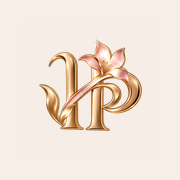
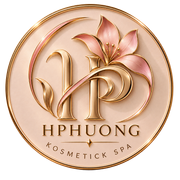
Lettering: copper-bevel BEAUTY COSMETIC HOÀNG pictures (lockup + header, light/dark) matching the old HPHUONG artwork

diff --git a/src/components/Chrome.tsx b/src/components/Chrome.tsx
@@ -25,6 +25,7 @@ import { ThemeToggle } from "./ThemeToggle";
 import type { Theme, ThemeChoice } from "@/lib/theme-auto";
 import { MotionRoot } from "./Motion";
 import { SpinLogo } from "./SpinLogo";
+import { Img } from "./Img";
 
 type Props = {
   locale: Locale;
@@ -113,9 +114,9 @@ export function Chrome({ locale, socialLinks, signedIn, themeChoice, children }:
                   <SpinLogo className="logo-spin__video" />
                 </span>
               )}
-              <span>
-                <span className="brand__name">{t.brand.line1.toUpperCase()}</span>
-                <span className="brand__descriptor">{t.brand.line2}</span>
+              <span className="brand__word">
+                <Img id="logo-header" alt={t.brand.name} priority sizes="230px" className="brand__word-img brand__word-img--light" />
+                <Img id="logo-header-dark" alt="" priority sizes="230px" className="brand__word-img brand__word-img--dark" />
               </span>
             </Link>
             <nav className="header__nav" aria-label={t.nav.mainNav}>
@@ -190,9 +191,9 @@ export function Chrome({ locale, socialLinks, signedIn, themeChoice, children }:
                   <img src="/media/logo-3d-still-240.webp" width={240} height={240} alt="" />
                   <SpinLogo className="logo-spin__video" />
                 </span>
-                <span>
-                  <span className="m-header__name">{t.brand.line1.toUpperCase()}</span>
-                  <span className="m-header__descriptor">{t.brand.line2}</span>
+                <span className="brand__word brand__word--m">
+                  <Img id="logo-header" alt={t.brand.name} priority sizes="200px" className="brand__word-img brand__word-img--light" />
+                  <Img id="logo-header-dark" alt="" priority sizes="200px" className="brand__word-img brand__word-img--dark" />
                 </span>
               </Link>
               <div className="m-header__tools">

diff --git a/src/components/BrandWord.tsx b/src/components/BrandWord.tsx
@@ -1,27 +1,15 @@
 import { Img } from "./Img";
 
 /**
- * The lettering under the monogram: the shop's name as live text — "BEAUTY COSMETIC" in rose gold on
- * top (with the leaf ornament cut from the studio's artwork, logo-name) and "HOÀNG" set on the arch
- * below. The box keeps the proportions of the old one-piece lettering (1119 × 413).
+ * The lettering under the monogram: "BEAUTY COSMETIC" in the same copper bevel as the old HPHUONG artwork,
+ * the leaf ornament, and "HOÀNG" on the arch. One picture per theme (the arched line is brown on cream,
+ * pale rose on graphite); CSS shows the one that matches.
  */
-export function BrandWord({ id, className = "", sizes, name = "Beauty Cosmetic", descriptor = "Hoàng" }: { id: string; className?: string; sizes: string; name?: string; descriptor?: string }) {
+export function BrandWord({ className = "", sizes, name = "Beauty Cosmetic Hoàng" }: { id?: string; className?: string; sizes: string; name?: string; descriptor?: string }) {
   return (
     <div className={`brand-word ${className}`}>
-      <div className="brand-word__name">
-        <span className="brand-word__text">{name.toUpperCase()}</span>
-        <div className="brand-word__orn" aria-hidden>
-          <Img id="logo-name" alt="" priority sizes={sizes} className="brand-word__orn-img" />
-        </div>
-      </div>
-      <svg className="brand-word__arc" viewBox="0 0 1119 215" aria-hidden focusable="false">
-        <path id={id} d="M 20 40 Q 559.5 372 1099 40" fill="none" />
-        <text>
-          <textPath href={`#${id}`} startOffset="50%" textAnchor="middle">
-            {descriptor.toUpperCase()}
-          </textPath>
-        </text>
-      </svg>
+      <Img id="logo-lockup" alt={name} priority sizes={sizes} className="brand-word__img brand-word__img--light" />
+      <Img id="logo-lockup-dark" alt="" priority sizes={sizes} className="brand-word__img brand-word__img--dark" />
     </div>
   );
 }

diff --git a/src/lib/media-config.ts b/src/lib/media-config.ts
@@ -24,6 +24,11 @@ export const MEDIA = {
   "logo-3d-still": { file: "assets/brand/logo-3d-still.png", width: 720, height: 720, widths: [240, 480, 720] },
   // "HPHUONG" + leaf ornament only (rows 0–262 of logo-wordmark, the arched descriptor removed): the descriptor is live text now (BrandWord).
   "logo-name": { file: "assets/brand/logo-name.png", width: 1119, height: 262, widths: [240, 480, 800, 1119] },
+  // BEAUTY COSMETIC HOÀNG lettering (copper bevel like the HPHUONG artwork; made by scratchpad wm.py): lockup with the leaf ornament + arched HOÀNG, and the compact header version. -dark = lighter HOÀNG for graphite.
+  "logo-lockup": { file: "assets/brand/logo-lockup.png", width: 1119, height: 413, widths: [240, 480, 800, 1119] },
+  "logo-lockup-dark": { file: "assets/brand/logo-lockup-dark.png", width: 1119, height: 413, widths: [240, 480, 800, 1119] },
+  "logo-header": { file: "assets/brand/logo-header.png", width: 1000, height: 190, widths: [240, 480, 1000] },
+  "logo-header-dark": { file: "assets/brand/logo-header-dark.png", width: 1000, height: 190, widths: [240, 480, 1000] },
   "logo-wordmark": { file: "assets/brand/logo-wordmark.png", width: 1119, height: 413, widths: [240, 480, 800, 1119] },
   "logo-medallion": { file: "assets/brand/logo-medallion.png", width: 1254, height: 1254, widths: [96, 192, 320, 640] },
   "decor-lily": { file: "assets/images/decor-lily.png", width: 1254, height: 1254, widths: [320, 640, 960] },

diff --git a/src/styles/decor.css b/src/styles/decor.css
@@ -1930,3 +1930,47 @@ body {
     box-shadow: 0 2px 8px rgb(22 16 18 / 35%);
   }
 }
+
+/* ---- BEAUTY COSMETIC HOÀNG lettering = pictures (copper bevel like the old artwork); light/dark pair ---- */
+.brand-word .brand-word__img,
+.brand-word .brand-word__img img {
+  display: block;
+  width: 100%;
+  height: 100%;
+  object-fit: contain;
+  filter: none;
+}
+.brand-word__img--dark,
+.brand__word-img--dark {
+  display: none !important;
+}
+:root[data-theme="dark"] .brand-word__img--dark,
+:root[data-theme="dark"] .brand__word-img--dark,
+.m-home--full .brand-word__img--dark {
+  display: block !important;
+}
+:root[data-theme="dark"] .brand-word__img--light,
+:root[data-theme="dark"] .brand__word-img--light,
+.m-home--full .brand-word__img--light {
+  display: none !important;
+}
+.brand__word {
+  display: block;
+  width: clamp(150px, 12.5vw, 200px);
+  aspect-ratio: 1000 / 190;
+}
+.brand__word .brand__word-img,
+.brand__word .brand__word-img img {
+  display: block;
+  width: 100%;
+  height: 100%;
+  object-fit: contain;
+}
+.brand__word--m {
+  width: min(200px, 100%);
+}
+@media (max-width: 1180px) {
+  .brand__word {
+    width: clamp(150px, 20vw, 200px);
+  }
+}
